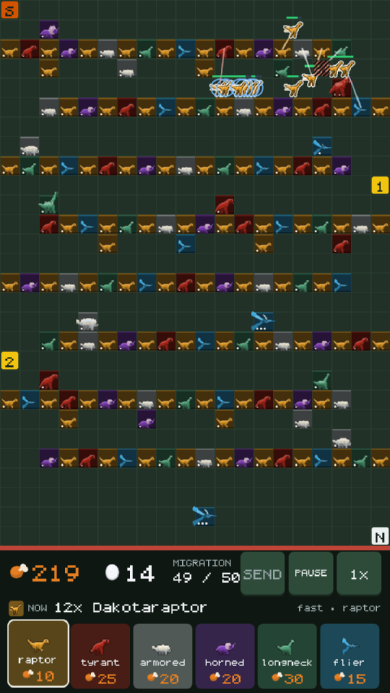
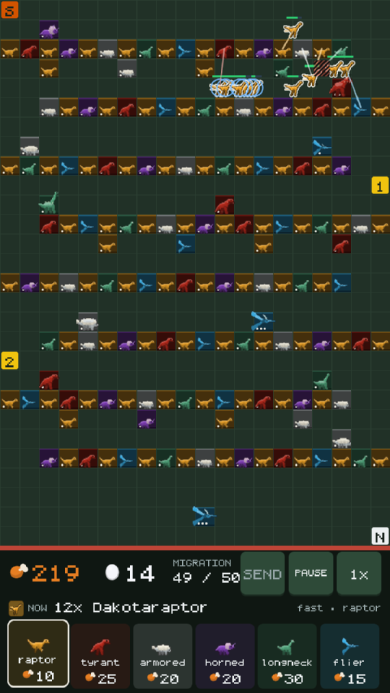
design: art:check grades the pip rule, not a fixed ink (ARB-386)
ARB-377 landed `tools/art/graphical-pairs.ts` after this branch forked, and
its `pip / <kind>` pairs grade a fixed `BOARD.ink` — the thing decision 0006
replaces. Left as it was, the one gate that measures 1.4.11 on the board
would keep measuring a colour the renderer no longer draws, and
`tightestPip()`'s comment would keep describing the 2.88:1 defect as open.

So `pipInk()` is the rule's copy on the tool side, pinned to the client's
`PIP_INK` in `palette-agreement.test.ts`. A second copy of a rule is how the
six kind hues drifted for the whole of M2; pinning it is the only reason this
one is allowed to exist, and `tools` still cannot import `theme.ts` (TS2503,
the Phaser namespace).

The tightest-pip band moves with it. `[3, 3.5)` was where one fixed ink put
the pair; the rule's own floor is 4.01:1 — the mid grey where its two values
meet — so asserting 3 would stop saying that, and the test names `horned`.

Changed region(s): [[0.0, 0.8788, 0.9846, 1.0]]

diff --git a/tools/art/graphical-pairs.ts b/tools/art/graphical-pairs.ts
@@ -10,11 +10,31 @@
 // `art:check`, so a guard only the CLI ran would gate nothing. `build.ts`
 // prints these and `test/graphical-pairs.test.ts` fails on them.
 
-import { BOARD, KIND_HUE, KINDS } from "./directions.js";
+import { BOARD, KIND_HUE, KINDS, type Kind } from "./directions.js";
 import { contrastRatio, rgb, type Rgb } from "./raster.js";
 
 /** WCAG 1.4.11's floor for a graphical object that carries information. */
 export const GRAPHICAL_FLOOR = 3;
+
+/**
+ * `PIP_INK` in packages/game/src/theme.ts, restated here because `tools`
+ * cannot import `theme.ts` — the same reason `directions.ts` restates the
+ * colours. `packages/game/test/palette-agreement.test.ts` pins the two equal
+ * and re-derives the rule from the hues, so neither copy is a literal table
+ * somebody has to keep in step by hand.
+ *
+ * The rule: whichever of `ink` and `text` — the board's dark and §4's one
+ * permitted near-white, `COLORS.ink` and `COLORS.selection` on the client,
+ * which `palette-agreement.test.ts` already pins equal to `COLORS.text` —
+ * contrasts more with the kind fill the pip sits on. A pip lands on its own
+ * dinosaur's cell, one of six known at the call site, so it can take the
+ * better of two values where the refusal hatching cannot. ARB-386 ruled it;
+ * decision 0006 says why, and what the alternatives cost.
+ */
+export function pipInk(k: Kind): Rgb {
+  const fill = rgb(KIND_HUE[k]);
+  return contrastRatio(BOARD.ink, fill) >= contrastRatio(BOARD.text, fill) ? BOARD.ink : BOARD.text;
+}
 
 export interface Pair {
   readonly what: string;
@@ -46,9 +66,9 @@ export const GATED: readonly Pair[] = [
   { what: "nest / board", fg: BOARD.nest, bg: BOARD.boardBg },
   { what: "selection / board", fg: BOARD.nest, bg: BOARD.boardBg },
   // Growth stage is pips on the animal, so the pip has to clear the fill it
-  // is laid on for all six kinds. See `tightestPip()` for which one is
-  // closest to the floor, and for why the client's own number is lower.
-  ...KINDS.map((k) => ({ what: `pip / ${k}`, fg: BOARD.ink, bg: rgb(KIND_HUE[k]) })),
+  // is laid on for all six kinds. The colour is `pipInk()` and not a fixed
+  // ink — see there for why, and `tightestPip()` for which kind is closest.
+  ...KINDS.map((k) => ({ what: `pip / ${k}`, fg: pipInk(k), bg: rgb(KIND_HUE[k]) })),
 ];
 
 /**
@@ -135,15 +155,13 @@ export function staleExemptions(): Result[] {
  * changes: it is the pair closest to the floor and so the first to fall
  * through a palette edit.
  *
- * **It is measured on `KIND_HUE`, which is the art tool's palette.** The
- * client draws pips over `KIND_COLOR` in `packages/game/src/theme.ts`, and
- * those six values are *not* the same six — `palette-agreement.test.ts` pins
- * the board and HUD colours but not the kind hues. Against the client's set
- * the tightest is `horned` at 3.22:1 rather than `tyrant` at 3.17:1, and the
- * client additionally draws the pip at **alpha 0.85**, which composites to
- * 2.88:1 on `horned` — under the floor. That is a real defect and it is
- * ARB-386's, not this file's: gating a number here that no renderer produces
- * would be worse than gating the one the art tool actually draws.
+ * It is measured on `KIND_HUE`, and since ARB-386 that is also the client's
+ * `KIND_COLOR`: the two differed on all six kinds when this function was
+ * written, so the tightest pair here was `tyrant` at 3.17:1 while the
+ * renderer's was `horned` at 3.22:1, and the renderer drew the pip at alpha
+ * 0.85 on top of that, composited to **2.88:1** — under the floor, on screen,
+ * while this list passed. Both halves of that are closed: the hues agree, and
+ * `pipInk()` plus an opaque draw puts the tightest pair at 4.94:1.
  */
 export function tightestPip(): Result {
   const pips = gatedResults().filter((r) => r.what.startsWith("pip / "));

diff --git a/packages/game/test/palette-agreement.test.ts b/packages/game/test/palette-agreement.test.ts
@@ -34,6 +34,7 @@
 
 import { describe, expect, it } from "vitest";
 import { BOARD, CARD_TINT as ART_CARD_TINT, KINDS, KIND_HUE } from "../../../tools/art/directions.js";
+import { pipInk } from "../../../tools/art/graphical-pairs.js";
 import { contrastRatio, mix, rgb, type Rgb } from "../../../tools/art/raster.js";
 import { CARD_TINT, COLORS, KIND_COLOR, PIP_INK, hexCss } from "../src/theme.js";
 
@@ -195,6 +196,24 @@ describe("the kind palette, and the marks drawn on it", () => {
       return PIP_INK[k] !== better;
     });
     expect(wrong).toEqual([]);
+  });
+
+  /**
+   * And the art tool's copy of the same rule. `art:check`'s `pip / <kind>`
+   * pairs are graded against `pipInk()` in `tools/art/graphical-pairs.ts`,
+   * which exists because `tools` cannot import `theme.ts`. A second copy of
+   * a rule is how the hues drifted for the whole of M2, so it is pinned the
+   * same way the colours are: if the two implementations ever disagree about
+   * a kind, `art:check`'s 3:1 measurement stops being a measurement of the
+   * pip the renderer draws, which is exactly the hole ARB-386 found.
+   */
+  it("agrees with the art tool on which ink each pip takes", () => {
+    const drift = KINDS.map((k) => {
+      const mine = rgb(PIP_INK[k]);
+      const theirs = pipInk(k);
+      return mine.every((c, i) => c === theirs[i]!) ? "" : `${k}: theme ${hexCss(PIP_INK[k])} vs art ${theirs.join()}`;
+    }).filter(Boolean);
+    expect(drift.join("\n")).toBe("");
   });
 
   /**

diff --git a/tools/art/test/graphical-pairs.test.ts b/tools/art/test/graphical-pairs.test.ts
@@ -48,9 +48,21 @@ describe("graphical pairs (WCAG 1.4.11, 3:1)", () => {
 
   // The pair closest to the floor, so a palette edit that eats the margin
   // fails here with the kind named rather than somewhere downstream.
+  //
+  // The band was `[3, 3.5)` when this file was written, which is where one
+  // fixed `ink` put it — and `packages/game/test/palette-agreement.test.ts`
+  // records that the client was below the floor at the time, composited. Both
+  // numbers moved on ARB-386: `pipInk()` takes the better of the board's dark
+  // and its near-white per kind, so the tightest is `horned` and the band is
+  // the one the rule can actually produce. Its lower edge is not 3 any more
+  // because the rule has a floor of its own — the worst fill it can be handed
+  // is the mid grey where the two values meet, at 4.01:1 — and asserting 3
+  // here would stop saying that.
   it("names the tightest growth pip", () => {
     const t = tightestPip();
+    expect(t.what).toBe("pip / horned");
     expect(t.ratio).toBeGreaterThanOrEqual(GRAPHICAL_FLOOR);
-    expect(t.ratio).toBeLessThan(3.5);
+    expect(t.ratio).toBeGreaterThan(4);
+    expect(t.ratio).toBeLessThan(5.2);
   });
 });
